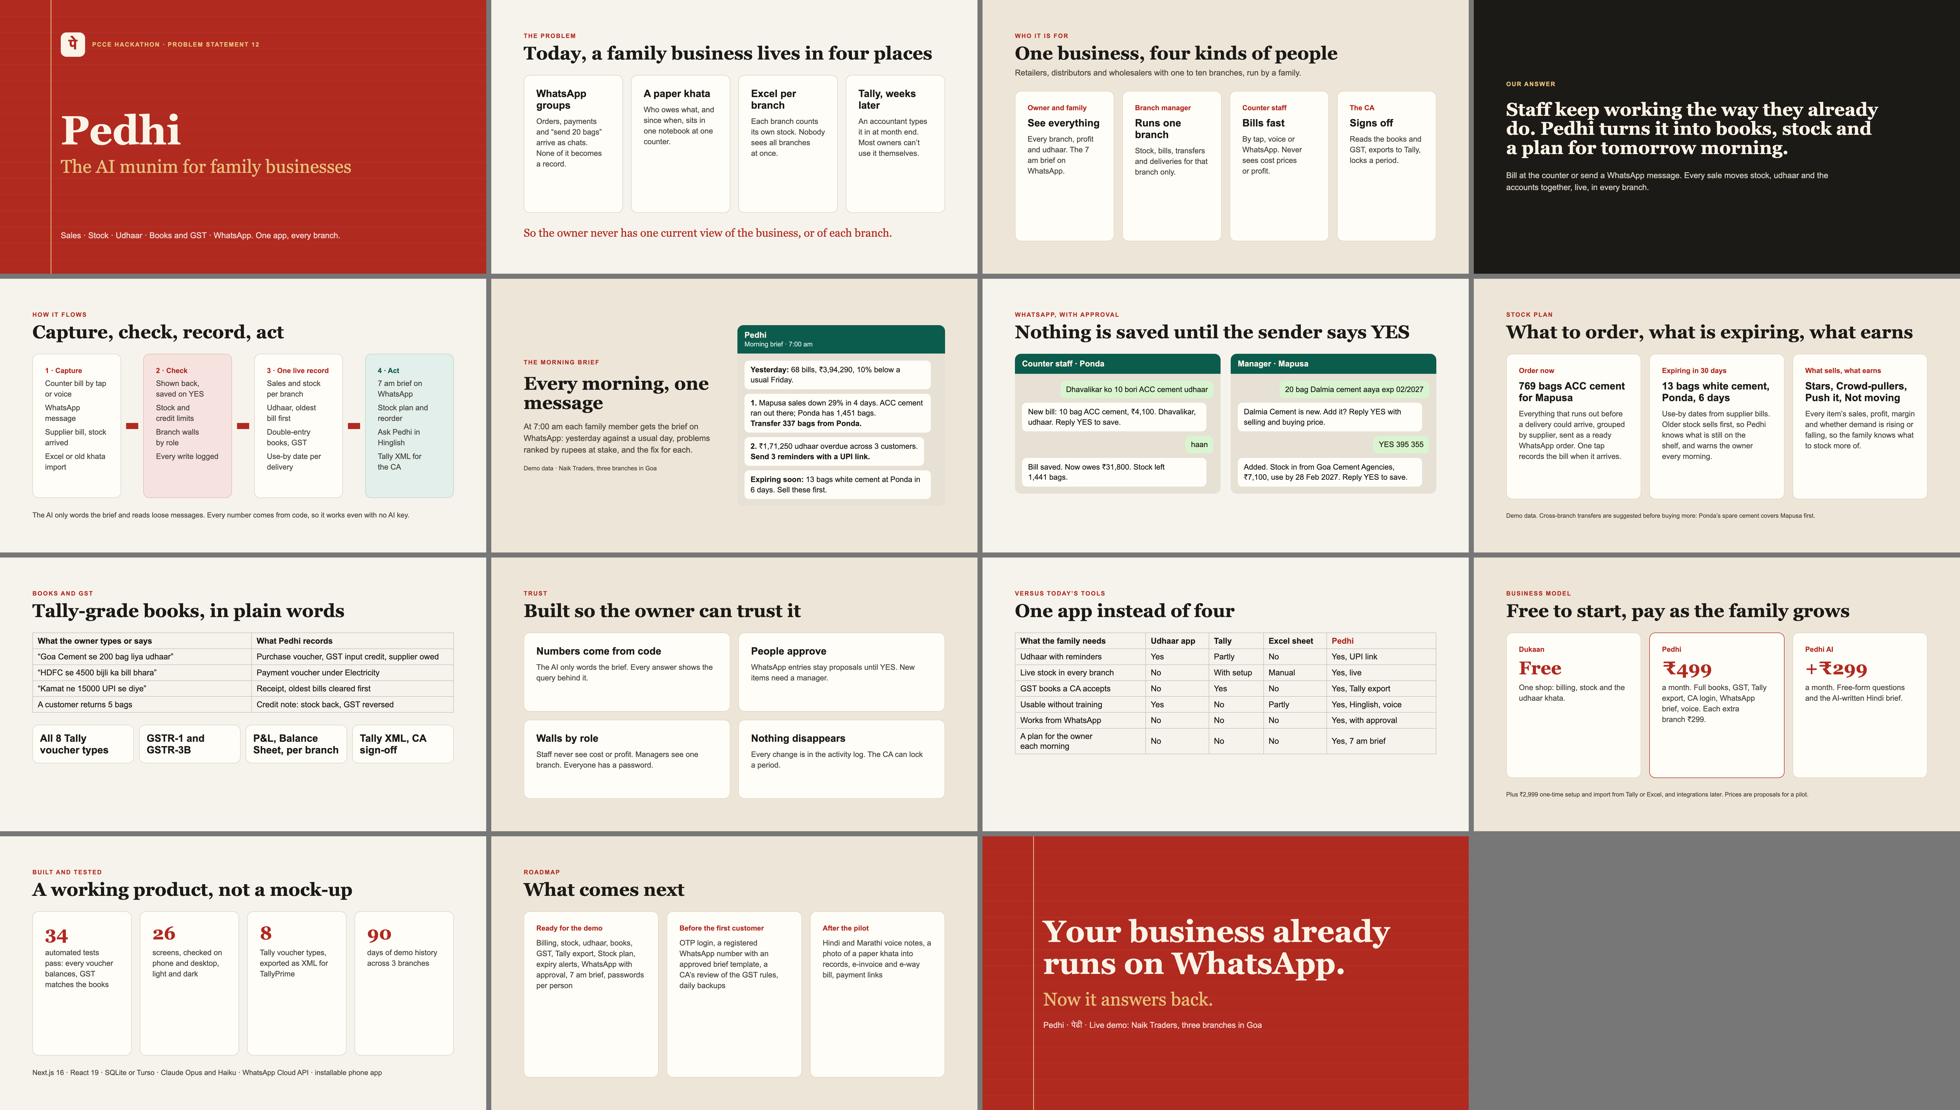
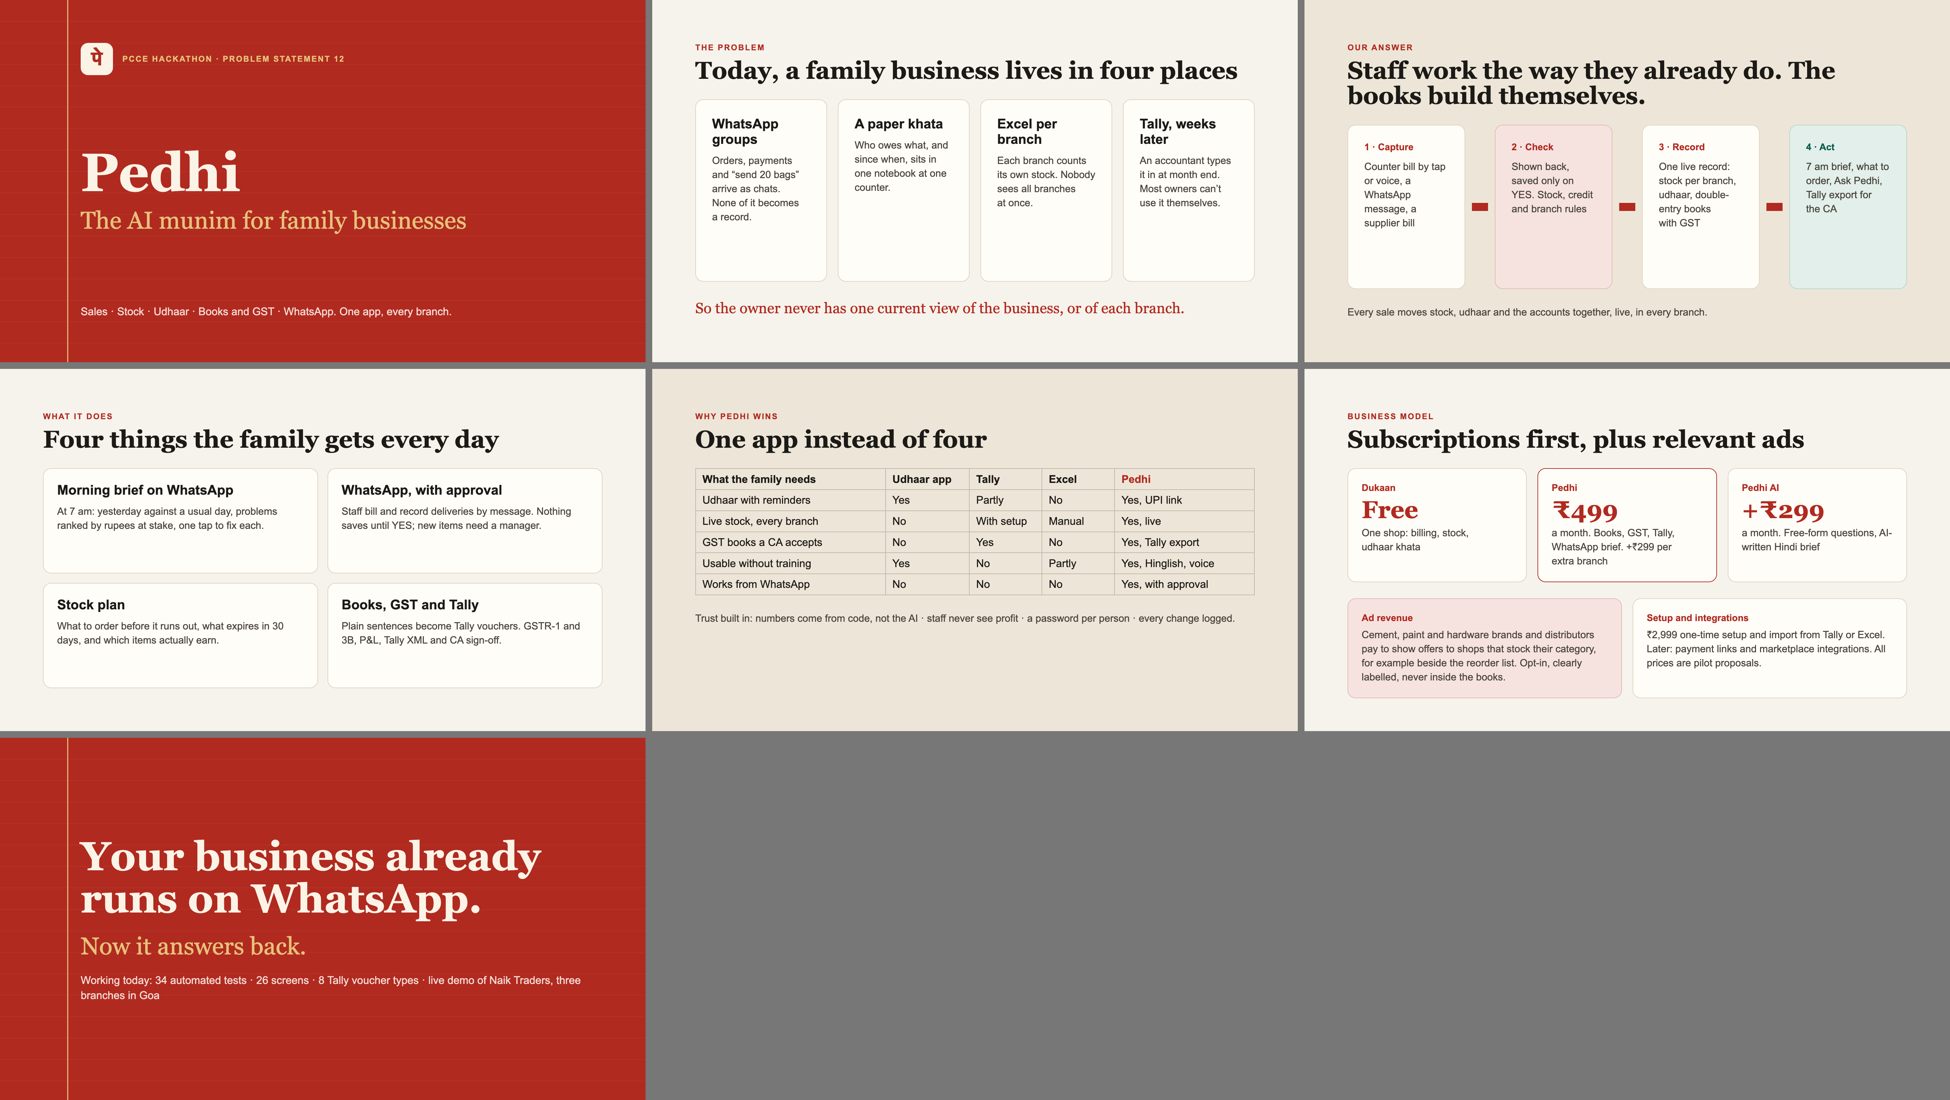
Pitch deck cut to 7 slides; business model adds ad revenue beside subscriptions

diff --git a/docs/pitch-deck/project/slides/model.html b/docs/pitch-deck/project/slides/model.html
@@ -1,13 +1,16 @@
-<section id="model" class="alt">
+<section id="model">
 <div class="head">
 <p class="eyebrow">Business model</p>
-<h2 class="title">Free to start, pay as the family grows</h2>
+<h2 class="title">Subscriptions first, plus relevant ads</h2>
+</div>
+<div class="cards" style="flex:none;">
+<div class="card rise" style="--i:0; padding:40px; gap:12px;"><p class="tag">Dukaan</p><p class="big">Free</p><p class="small">One shop: billing, stock, udhaar khata</p></div>
+<div class="card rise" style="--i:1; padding:40px; gap:12px; border-color:#B02A20;"><p class="tag">Pedhi</p><p class="big">₹499</p><p class="small">a month. Books, GST, Tally, WhatsApp brief. +₹299 per extra branch</p></div>
+<div class="card rise" style="--i:2; padding:40px; gap:12px;"><p class="tag">Pedhi AI</p><p class="big">+₹299</p><p class="small">a month. Free-form questions, AI-written Hindi brief</p></div>
 </div>
 <div class="cards">
-<div class="card rise" style="--i:0"><p class="tag">Dukaan</p><p class="big">Free</p><p class="small">One shop: billing, stock and the udhaar khata.</p></div>
-<div class="card rise" style="--i:1; border-color:#B02A20;"><p class="tag">Pedhi</p><p class="big">₹499</p><p class="small">a month. Full books, GST, Tally export, CA login, WhatsApp brief, voice. Each extra branch ₹299.</p></div>
-<div class="card rise" style="--i:2"><p class="tag">Pedhi AI</p><p class="big">+₹299</p><p class="small">a month. Free-form questions and the AI-written Hindi brief.</p></div>
+<div class="card rise" style="--i:3; padding:40px; gap:12px; background:#F6E3E0; border-color:#E2B9B3;"><p class="tag">Ad revenue</p><p class="small">Cement, paint and hardware brands and distributors pay to show offers to shops that stock their category, for example beside the reorder list. Opt-in, clearly labelled, never inside the books.</p></div>
+<div class="card rise" style="--i:4; padding:40px; gap:12px;"><p class="tag">Setup and integrations</p><p class="small">₹2,999 one-time setup and import from Tally or Excel. Later: payment links and marketplace integrations. All prices are pilot proposals.</p></div>
 </div>
-<p class="small">Plus ₹2,999 one-time setup and import from Tally or Excel, and integrations later. Prices are proposals for a pilot.</p>
-<aside>This maps to the PS revenue streams: subscription, per-branch pricing, premium AI, implementation fees and integrations.</aside>
+<aside>Recurring subscription is the core: free to start, paid as the family adds branches and AI. Ads come from suppliers who want to reach exactly these shops, at the moment they reorder.</aside>
 </section>

diff --git a/docs/pitch-deck/project/slides/solution.html b/docs/pitch-deck/project/slides/solution.html
@@ -1,0 +1,17 @@
+<section id="solution" class="alt">
+<div class="head">
+<p class="eyebrow">Our answer</p>
+<h2 class="title">Staff work the way they already do. The books build themselves.</h2>
+</div>
+<div class="fill" style="display:flex; align-items:stretch; gap:20px;">
+<div class="card rise" style="--i:0;"><p class="tag">1 · Capture</p><p class="small">Counter bill by tap or voice, a WhatsApp message, a supplier bill</p></div>
+<div style="display:flex; align-items:center;"><x-shape kind="arrow-right" style="width:48px; height:24px; background:#B02A20;"></x-shape></div>
+<div class="card rise" style="--i:1; background:#F6E3E0; border-color:#E2B9B3;"><p class="tag">2 · Check</p><p class="small">Shown back, saved only on YES. Stock, credit and branch rules</p></div>
+<div style="display:flex; align-items:center;"><x-shape kind="arrow-right" style="width:48px; height:24px; background:#B02A20;"></x-shape></div>
+<div class="card rise" style="--i:2;"><p class="tag">3 · Record</p><p class="small">One live record: stock per branch, udhaar, double-entry books with GST</p></div>
+<div style="display:flex; align-items:center;"><x-shape kind="arrow-right" style="width:48px; height:24px; background:#B02A20;"></x-shape></div>
+<div class="card rise" style="--i:3; background:#E2EFEA; border-color:#B7D6CB;"><p class="tag" style="color:#0B5C4C;">4 · Act</p><p class="small">7 am brief, what to order, Ask Pedhi, Tally export for the CA</p></div>
+</div>
+<p class="small" style="font-size:30px;">Every sale moves stock, udhaar and the accounts together, live, in every branch.</p>
+<aside>One rules layer, one database, rule engines on top. The AI only words things; every number comes from code.</aside>
+</section>

diff --git a/docs/pitch-deck/project/slides/why.html b/docs/pitch-deck/project/slides/why.html
@@ -1,0 +1,16 @@
+<section id="why" class="alt">
+<div class="head">
+<p class="eyebrow">Why Pedhi wins</p>
+<h2 class="title">One app instead of four</h2>
+</div>
+<table style="font-size:32px; color:#1C1A17;">
+<tr><th style="width:34%">What the family needs</th><th style="width:15%">Udhaar app</th><th style="width:13%">Tally</th><th style="width:13%">Excel</th><th style="width:25%; color:#B02A20;">Pedhi</th></tr>
+<tr><td>Udhaar with reminders</td><td>Yes</td><td>Partly</td><td>No</td><td>Yes, UPI link</td></tr>
+<tr><td>Live stock, every branch</td><td>No</td><td>With setup</td><td>Manual</td><td>Yes, live</td></tr>
+<tr><td>GST books a CA accepts</td><td>No</td><td>Yes</td><td>No</td><td>Yes, Tally export</td></tr>
+<tr><td>Usable without training</td><td>Yes</td><td>No</td><td>Partly</td><td>Yes, Hinglish, voice</td></tr>
+<tr><td>Works from WhatsApp</td><td>No</td><td>No</td><td>No</td><td>Yes, with approval</td></tr>
+</table>
+<p class="small" style="font-size:30px;">Trust built in: numbers come from code, not the AI · staff never see profit · a password per person · every change logged.</p>
+<aside>We don’t ask people to give up WhatsApp; we connect it to the books. Odoo-style ERPs do more modules but need consultants and trained operators.</aside>
+</section>

diff --git a/docs/pitch-deck/project/slides/features.html b/docs/pitch-deck/project/slides/features.html
@@ -1,0 +1,13 @@
+<section id="features">
+<div class="head">
+<p class="eyebrow">What it does</p>
+<h2 class="title">Four things the family gets every day</h2>
+</div>
+<div class="fill" style="display:grid; grid-template-columns:1fr 1fr; grid-template-rows:1fr 1fr; gap:28px;">
+<div class="card rise" style="--i:0; padding:40px;"><h3>Morning brief on WhatsApp</h3><p class="small">At 7 am: yesterday against a usual day, problems ranked by rupees at stake, one tap to fix each.</p></div>
+<div class="card rise" style="--i:1; padding:40px;"><h3>WhatsApp, with approval</h3><p class="small">Staff bill and record deliveries by message. Nothing saves until YES; new items need a manager.</p></div>
+<div class="card rise" style="--i:2; padding:40px;"><h3>Stock plan</h3><p class="small">What to order before it runs out, what expires in 30 days, and which items actually earn.</p></div>
+<div class="card rise" style="--i:3; padding:40px;"><h3>Books, GST and Tally</h3><p class="small">Plain sentences become Tally vouchers. GSTR-1 and 3B, P&amp;L, Tally XML and CA sign-off.</p></div>
+</div>
+<aside>Demo story: Mapusa sales fell 29% because ACC cement ran out; the brief suggests moving 337 bags from Ponda. Show it live after the deck.</aside>
+</section>

diff --git a/docs/pitch-deck/project/slides/close.html b/docs/pitch-deck/project/slides/close.html
@@ -3,7 +3,7 @@
 <div class="rise" style="display:flex; flex-direction:column; gap:40px; padding-left:112px;">
 <h2 style="font-family:'EB Garamond', Georgia, serif; font-size:120px; font-weight:600; line-height:1.05; color:#FBF3E6;">Your business already runs on WhatsApp.</h2>
 <p style="font-family:'EB Garamond', Georgia, serif; font-size:72px; font-weight:500; line-height:1.1; color:#E7C27A;">Now it answers back.</p>
-<p class="small" style="font-size:32px;">Pedhi · पेढी · Live demo: Naik Traders, three branches in Goa</p>
+<p class="small" style="font-size:32px;">Working today: 34 automated tests · 26 screens · 8 Tally voucher types · live demo of Naik Traders, three branches in Goa</p>
 </div>
 <aside>Thank you. Now the live demo: the morning brief, a WhatsApp bill with approval, a new item arriving, and the Stock plan updating by itself.</aside>
 </section>

diff --git a/docs/pitch-deck/README.md b/docs/pitch-deck/README.md
@@ -2,4 +2,4 @@
 
 Live deck (download as PowerPoint or PDF from its Share menu): https://claude.ai/artifact/9pJyR39nS8FP6uGooYTR9X
 
-`project/` holds the slide source; `preview.png` shows all 15 slides.
+`project/` holds the slide source; `preview.png` shows all 7 slides.
